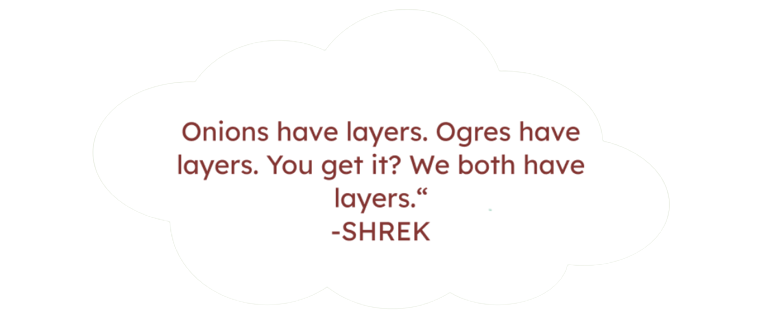
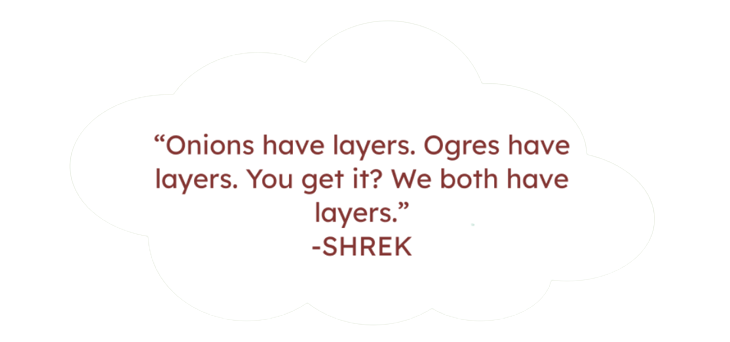
styling changes

Changed region(s): [[0.211, 0.3715, 0.7836, 0.774]]

diff --git a/react-swampy-sentiments/src/App.css b/react-swampy-sentiments/src/App.css
@@ -23,5 +23,5 @@
   display: block;
   margin-left: auto;
   margin-right: auto;
-  width: 50%;
+  width: 40%;
 }
